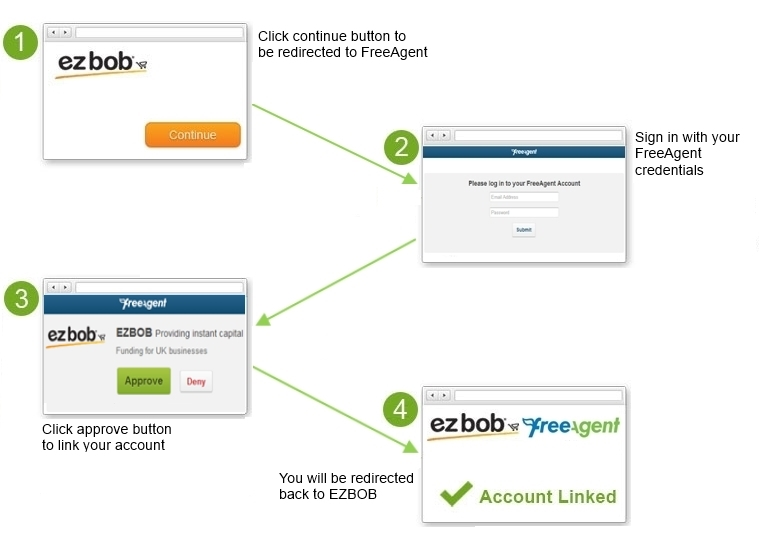
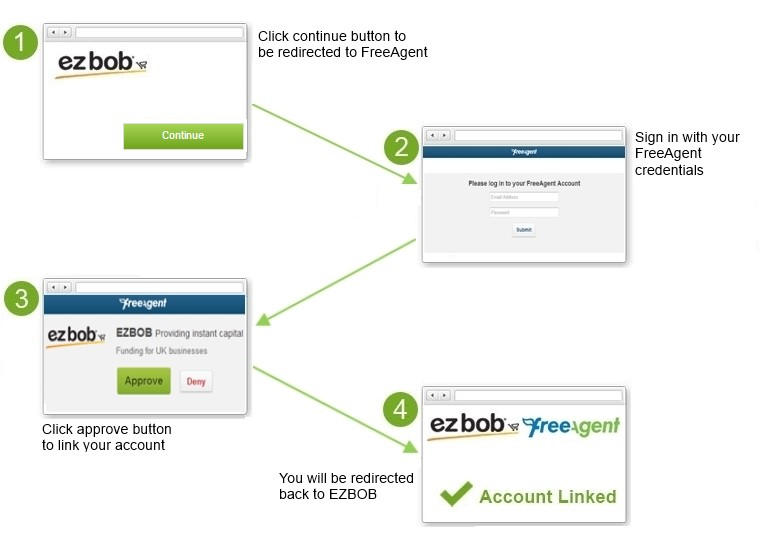
EZ-1650 wizard text/gui fixes

Changed region(s): [[0.1515, 0.2063, 0.3333, 0.2947]]

diff --git a/App/PluginWeb/EzBob.Web/Content/js/Wizard/shops/ezbob.shops.min.js b/App/PluginWeb/EzBob.Web/Content/js/Wizard/shops/ezbob.shops.min.js
@@ -1,1 +1,1 @@
-(function(){var n,t={}.hasOwnProperty,i=function(n,i){function u(){this.constructor=n}for(var r in i)t.call(i,r)&&(n[r]=i[r]);return u.prototype=i.prototype,n.prototype=new u,n.__super__=i.prototype,n};n=typeof exports!="undefined"&&exports!==null?exports:this;n.EzBob=n.EzBob||{};EzBob.StoreInfoView=function(n){function t(){return t.__super__.constructor.apply(this,arguments)}return i(t,n),t.prototype.attributes={"class":"stores-view"},t.prototype.isOffline=function(){return this.fromCustomer("IsOffline")},t.prototype.isProfile=function(){return this.fromCustomer("IsProfile")},t.prototype.fromCustomer=function(n){var t;return(t=this.model.get("customer"),!t)?!1:n==="IsProfile"?t.createdInProfile:t.get(n)},t.prototype.initialize=function(){var r,n,i,f,t,u,e;this.ebayStores=new EzBob.EbayStoreModels;this.EbayStoreView=new EzBob.EbayStoreInfoView;this.ebayStores.on("reset change",this.marketplacesChanged,this);this.amazonMarketplaces=new EzBob.AmazonStoreModels;this.AmazonStoreInfoView=new EzBob.AmazonStoreInfoView;this.amazonMarketplaces.on("reset change",this.marketplacesChanged,this);this.ekmAccounts=new EzBob.EKMAccounts;this.EKMAccountInfoView=new EzBob.EKMAccountInfoView({model:this.ekmAccounts});this.freeAgentAccounts=new EzBob.FreeAgentAccounts;this.FreeAgentAccountInfoView=new EzBob.FreeAgentAccountInfoView({model:this.freeAgentAccounts});this.sageAccounts=new EzBob.SageAccounts;this.sageAccountInfoView=new EzBob.SageAccountInfoView({model:this.sageAccounts});this.PayPointAccounts=new EzBob.PayPointAccounts;this.PayPointAccountInfoView=new EzBob.PayPointAccountInfoView({model:this.PayPointAccounts});this.YodleeAccounts=new EzBob.YodleeAccounts;this.YodleeAccountInfoView=new EzBob.YodleeAccountInfoView({model:this.YodleeAccounts});this.payPalAccounts=new EzBob.PayPalAccounts(this.model.get("paypalAccounts"));this.PayPalInfoView=new EzBob.PayPalInfoView({model:this.payPalAccounts});i=$.parseJSON($("div#cg-account-list").text());for(n in i)f=i[n],t=n.toLowerCase(),r=new EzBob.CGAccounts([],{accountType:n}),this[t+"Accounts"]=r,this[t+"AccountInfoView"]=t==="hmrc"?new EzBob.HMRCAccountInfoView({model:r}):new EzBob.CGAccountInfoView({model:r,accountType:n});this.stores={eBay:{view:this.EbayStoreView},Amazon:{view:this.AmazonStoreInfoView},paypal:{view:this.PayPalInfoView},EKM:{view:this.EKMAccountInfoView},PayPoint:{view:this.PayPointAccountInfoView},Yodlee:{view:this.YodleeAccountInfoView},FreeAgent:{view:this.FreeAgentAccountInfoView},Sage:{view:this.sageAccountInfoView}};for(n in i)e=i[n],t=n.toLowerCase(),this.stores[n]={view:this[t+"AccountInfoView"]};typeof u=="undefined"&&(u=Math.random()*10000000000000000);this.storeList=$(_.template($("#store-info").html(),{ordpi:u}));EzBob.App.on("ct:storebase.shops.connect",this.connect,this);return this.isReady=!1},t.prototype.events={"click a.connect-store":"close","click a.continue":"next","click .btn-showmore":"showMoreAccounts"},t.prototype.render=function(){var e,l,t,g,a,n,nt,v,r,tt,it,y,rt,u,p,f,i,o,s,h,c,ut,ft,et,ot,w,b,k,d;for(this.mpGroups={},w=EzBob.Config.MarketPlaceGroups,o=0,ut=w.length;o<ut;o++)t=w[o],this.mpGroups[t.Id]=t,t.ui=null;for(b=EzBob.Config.MarketPlaces,s=0,ft=b.length;s<ft;s++)n=b[s],i=n.Name==="Pay Pal"?"paypal":n.Name,this.stores[i]&&(this.stores[i].active=this.isProfile()?this.isOffline()?n.ActiveDashboardOffline:n.ActiveDashboardOnline:this.isOffline()?n.ActiveWizardOffline:n.ActiveWizardOnline,this.stores[i].priority=this.isOffline()?n.PriorityOffline:n.PriorityOnline,this.stores[i].ribbon=n.Ribbon?n.Ribbon:"",this.stores[i].button=new EzBob.StoreButtonView({name:i,mpAccounts:this.model}),this.stores[i].button.ribbon=n.Ribbon?n.Ribbon:"",this.stores[i].mandatory=this.isOffline()?n.MandatoryOffline:n.MandatoryOnline,this.stores[i].groupid=n.Group!=null?n.Group.Id:0);k=this.stores;for(nt in k){f=k[nt];f.button.on("selected",this.connect,this);f.view.on("completed",_.bind(this.completed,this,f.button.name));f.view.on("back",this.back,this);f.button.on("ready",this.ready,this)}this.canContinue();this.showOrRemove();e=this.storeList.find(".accounts-list");e.empty();tt="Active"+(this.isProfile()?"Dashboard":"Wizard")+(this.isOffline()?"Offline":"Online");rt="Priority"+(this.isOffline()?"Offline":"Online");r=[];d=this.mpGroups;for(g in d)t=d[g],t[tt]&&r.push(t);for(r=_.sortBy(r,function(n){return n[rt]}),l=!0,h=0,et=r.length;h<et;h++)t=r[h],l?(l=!1,y="first"):y="following",a=this.storeList.find(".marketplace-group-template").clone().removeClass("marketplace-group-template hide").addClass(y).appendTo(e),$(".group-title",a).text(t.DisplayName),this.mpGroups[t.Id].ui=a;for(p=_.sortBy(this.stores,function(n){return n.priority}),c=0,ot=p.length;c<ot;c++)(u=p[c],u.active)&&(v=this.mpGroups[u.groupid]&&this.mpGroups[u.groupid].ui?this.mpGroups[u.groupid].ui:e,it=this.isProfile()?"marketplace-button-profile":this.extractBtnClass(v),u.button.render().$el.addClass("marketplace-button "+it).appendTo(v));return this.isOffline()&&!this.isProfile()&&this.storeList.find(".marketplace-button-more, .marketplace-group.following").hide(),this.storeList.appendTo(this.$el),EzBob.UiAction.registerView(this),this.amazonMarketplaces.trigger("reset"),this.ebayStores.trigger("reset"),this.$el.find("img[rel]").setPopover("left"),this.$el.find("li[rel]").setPopover("left"),this},t.prototype.showOrRemove=function(){var r,i,n,t;return r=this.isOffline(),i=this.isProfile(),$(this.storeList).find(".back-store").remove(),t="",n="",this.storeList.find(".btn-showmore").show(),r?(t=".offline_entry_message",n=".online_entry_message",this.storeList.find(".importantnumber").text("£150,000"),i?(this.storeList.find(".btn-showmore").hide(),this.storeList.find(".AddMoreRuleBottom").removeClass("hide")):this.storeList.find(".btn-showmore").show()):(t=".online_entry_message",n=".offline_entry_message",this.storeList.find(".btn-showmore").hide(),this.storeList.find(".AddMoreRuleBottom").removeClass("hide")),this.storeList.find(t).show(),this.storeList.find(n).remove(),i?(t=".profile_message",n=".wizard_message"):(t=".wizard_message",n=".profile_message"),this.storeList.find(t).show(),this.storeList.find(n).remove()},t.prototype.showMoreAccounts=function(){return this.storeList.find(".btn-showmore").hide(),this.storeList.find(".AddMoreRuleBottom").removeClass("hide"),this.storeList.find(".marketplace-button-more, .marketplace-group.following").show()},t.prototype.canContinue=function(){var n,t,i,r,f,e,o,u;i=!1;u=this.stores;for(f in u)if(e=u[f],e.button.shops.length){i=!0;break}return t=this.stores.eBay.button.shops.length>0,r=this.stores.paypal.button.shops.length>0,this.$el.find(".eBayPaypalRule").toggleClass("hide",!(t&&!r)),n=!1,this.isProfile()?n=!0:i&&(!t||t&&r)?n=!0:(o=this.isOffline()?"offline":"online",n=$("#allowFinishWizardWithoutMarketplaces").attr(o).toLowerCase()==="true"),this.storeList.find(".continue").toggleClass("disabled",!n),this.storeList.find(".AddMoreRule").toggleClass("hide",n)},t.prototype.extractBtnClass=function(n){var t;return t="pull-left",t+(" marketplace-button-"+($(".marketplace-button-less",n).length<2?"less":"more"))},t.prototype.marketplacesChanged=function(){if(this.ebayStores.length>0||this.amazonMarketplaces.length>0)return this.$el.find(".wizard-top-notification h2").text("Add more shops to get more cash!")},t.prototype.connect=function(n){var i,t;return EzBob.CT.recordEvent("ct:storebase.shops.connect",n),this.$el.find(">div").hide(),t=this.stores[n].view,t.render().$el.appendTo(this.$el),i=t.$el.find("IMG.field_status"),i.filter(".required").field_status({required:!0}),i.not(".required").field_status({required:!1}),t.$el.show(),this.oldTitle=$(document).attr("title"),this.setDocumentTitle(t),this.setFocus(n),event.preventDefault(),!1},t.prototype.setFocus=function(n){var t;$.colorbox.close();switch(n){case"EKM":return this.$el.find("#ekm_login").focus();case"PayPoint":return this.$el.find("#payPoint_login").focus();default:if(t=$.parseJSON($("div#cg-account-list").text()),t[n])return $(".form_field","#"+n.toLowerCase()+"Account").first().focus()}},t.prototype.setDocumentTitle=function(n){var t;return t=n.getDocumentTitle(),t?$(document).attr("title","Step 2: "+t+" | EZBOB"):void 0},t.prototype.close=function(){return this},t.prototype.completed=function(n){return this.shopConnected(n),this.trigger("completed")},t.prototype.back=function(){return this.$el.find(">div").hide(),this.storeList.show(),$(document).attr("title",this.oldTitle),this.updateEarnedPoints(),!1},t.prototype.next=function(){var n,t;if(n=this.$el.find(".continue"),!n.hasClass("disabled"))return t=$.post(window.gRootPath+"CustomerDetails/LinkAccountsComplete"),t.done(function(){return EzBob.App.trigger("clear"),EzBob.App.GA.trackEventReditect(window.gRootPath+"Customer/Profile/Index","Wizard Complete","Go To account","Awaiting Approval")}),!1},t.prototype.ready=function(n){return this.trigger("ready",n),this.isReady?void 0:(this.isReady=!0,this.$el.find(".continue").show())},t.prototype.updateEarnedPoints=function(){return $.getJSON(""+window.gRootPath+"Customer/Wizard/EarnedPointsStr").done(function(n){if(n.EarnedPointsStr)return $("#EarnedPoints").text(n.EarnedPointsStr)})},t.prototype.shopConnected=function(n){var t=this;return this.model.get("customer").safeFetch().done(function(){return t.stores[n].button.update(t.fromCustomer("mpAccounts")),t.updateEarnedPoints(),t.render()})},t}(Backbone.View)}).call(this)
+(function(){var n,t={}.hasOwnProperty,i=function(n,i){function u(){this.constructor=n}for(var r in i)t.call(i,r)&&(n[r]=i[r]);return u.prototype=i.prototype,n.prototype=new u,n.__super__=i.prototype,n};n=typeof exports!="undefined"&&exports!==null?exports:this;n.EzBob=n.EzBob||{};EzBob.StoreInfoView=function(n){function t(){return t.__super__.constructor.apply(this,arguments)}return i(t,n),t.prototype.attributes={"class":"stores-view"},t.prototype.isOffline=function(){return this.fromCustomer("IsOffline")},t.prototype.isProfile=function(){return this.fromCustomer("IsProfile")},t.prototype.fromCustomer=function(n){var t;return(t=this.model.get("customer"),!t)?!1:n==="IsProfile"?t.createdInProfile:t.get(n)},t.prototype.initialize=function(){var r,n,i,f,t,u,e;this.renderExecuted=!1;this.ebayStores=new EzBob.EbayStoreModels;this.EbayStoreView=new EzBob.EbayStoreInfoView;this.ebayStores.on("reset change",this.marketplacesChanged,this);this.amazonMarketplaces=new EzBob.AmazonStoreModels;this.AmazonStoreInfoView=new EzBob.AmazonStoreInfoView;this.amazonMarketplaces.on("reset change",this.marketplacesChanged,this);this.ekmAccounts=new EzBob.EKMAccounts;this.EKMAccountInfoView=new EzBob.EKMAccountInfoView({model:this.ekmAccounts});this.freeAgentAccounts=new EzBob.FreeAgentAccounts;this.FreeAgentAccountInfoView=new EzBob.FreeAgentAccountInfoView({model:this.freeAgentAccounts});this.sageAccounts=new EzBob.SageAccounts;this.sageAccountInfoView=new EzBob.SageAccountInfoView({model:this.sageAccounts});this.PayPointAccounts=new EzBob.PayPointAccounts;this.PayPointAccountInfoView=new EzBob.PayPointAccountInfoView({model:this.PayPointAccounts});this.YodleeAccounts=new EzBob.YodleeAccounts;this.YodleeAccountInfoView=new EzBob.YodleeAccountInfoView({model:this.YodleeAccounts});this.payPalAccounts=new EzBob.PayPalAccounts(this.model.get("paypalAccounts"));this.PayPalInfoView=new EzBob.PayPalInfoView({model:this.payPalAccounts});i=$.parseJSON($("div#cg-account-list").text());for(n in i)f=i[n],t=n.toLowerCase(),r=new EzBob.CGAccounts([],{accountType:n}),this[t+"Accounts"]=r,this[t+"AccountInfoView"]=t==="hmrc"?new EzBob.HMRCAccountInfoView({model:r}):new EzBob.CGAccountInfoView({model:r,accountType:n});this.stores={eBay:{view:this.EbayStoreView},Amazon:{view:this.AmazonStoreInfoView},paypal:{view:this.PayPalInfoView},EKM:{view:this.EKMAccountInfoView},PayPoint:{view:this.PayPointAccountInfoView},Yodlee:{view:this.YodleeAccountInfoView},FreeAgent:{view:this.FreeAgentAccountInfoView},Sage:{view:this.sageAccountInfoView}};for(n in i)e=i[n],t=n.toLowerCase(),this.stores[n]={view:this[t+"AccountInfoView"]};typeof u=="undefined"&&(u=Math.random()*10000000000000000);this.storeList=$(_.template($("#store-info").html(),{ordpi:u}));EzBob.App.on("ct:storebase.shops.connect",this.connect,this);return this.isReady=!1},t.prototype.events={"click a.connect-store":"close","click a.continue":"next","click .btn-showmore":"showMoreAccounts","click .btn-go-to-link-accounts":"showLinkAccountsForm","click .btn-take-quick-offer":"takeQuickOffer","click .btn-back-to-quick-offer":"backToQuickOffer"},t.prototype.backToQuickOffer=function(){return this.storeList.find(".link-accounts-form").addClass("hide"),this.storeList.find(".quick-offer-form").removeClass("hide")},t.prototype.takeQuickOffer=function(){var n;return n=$.post(window.gRootPath+"CustomerDetails/TakeQuickOffer"),n.done(function(){return EzBob.App.trigger("clear"),EzBob.App.GA.trackEventReditect(window.gRootPath+"Customer/Profile#GetCash","Wizard Complete","Go To account","Quick Offer Taken")}),!1},t.prototype.showLinkAccountsForm=function(){return this.storeList.find(".quick-offer-form").addClass("hide"),this.storeList.find(".link-accounts-form").removeClass("hide")},t.prototype.render=function(){var e,l,t,g,a,n,nt,v,r,tt,it,y,rt,u,ut,p,f,i,o,s,h,c,ft,et,ot,st,w,b,k,d;for(this.mpGroups={},w=EzBob.Config.MarketPlaceGroups,o=0,ft=w.length;o<ft;o++)t=w[o],this.mpGroups[t.Id]=t,t.ui=null;for(b=EzBob.Config.MarketPlaces,s=0,et=b.length;s<et;s++)n=b[s],i=n.Name==="Pay Pal"?"paypal":n.Name,this.stores[i]&&(this.stores[i].active=this.isProfile()?this.isOffline()?n.ActiveDashboardOffline:n.ActiveDashboardOnline:this.isOffline()?n.ActiveWizardOffline:n.ActiveWizardOnline,this.stores[i].priority=this.isOffline()?n.PriorityOffline:n.PriorityOnline,this.stores[i].ribbon=n.Ribbon?n.Ribbon:"",this.stores[i].button=new EzBob.StoreButtonView({name:i,mpAccounts:this.model}),this.stores[i].button.ribbon=n.Ribbon?n.Ribbon:"",this.stores[i].mandatory=this.isOffline()?n.MandatoryOffline:n.MandatoryOnline,this.stores[i].groupid=n.Group!=null?n.Group.Id:0);k=this.stores;for(nt in k){f=k[nt];f.button.on("selected",this.connect,this);f.view.on("completed",_.bind(this.completed,this,f.button.name));f.view.on("back",this.back,this);f.button.on("ready",this.ready,this)}this.canContinue();this.renderExecuted?this.shouldRemoveQuickOffer()&&(this.storeList.find(".quick-offer-form, .btn-back-to-quick-offer").remove(),this.storeList.find(".link-accounts-form").removeClass("hide")):(this.storeList.find(".quick-offer-form, .link-accounts-form").addClass("hide"),this.shouldShowQuickOffer()?(this.storeList.find(".quick-offer-form").removeClass("hide"),this.renderQuickOfferForm()):(this.storeList.find(".link-accounts-form").removeClass("hide"),this.shouldRemoveQuickOffer()&&this.storeList.find(".quick-offer-form, .btn-back-to-quick-offer").remove()));this.renderExecuted=!0;this.showOrRemove();e=this.storeList.find(".accounts-list");e.empty();tt="Active"+(this.isProfile()?"Dashboard":"Wizard")+(this.isOffline()?"Offline":"Online");rt="Priority"+(this.isOffline()?"Offline":"Online");r=[];d=this.mpGroups;for(g in d)t=d[g],t[tt]&&r.push(t);for(r=_.sortBy(r,function(n){return n[rt]}),l=!0,h=0,ot=r.length;h<ot;h++)t=r[h],l?(l=!1,y="first"):y="following",a=this.storeList.find(".marketplace-group-template").clone().removeClass("marketplace-group-template hide").addClass(y).appendTo(e),$(".group-title",a).text(t.DisplayName),this.mpGroups[t.Id].ui=a;for(p=_.sortBy(this.stores,function(n){return n.priority}),c=0,st=p.length;c<st;c++)(u=p[c],u.active)&&(v=this.mpGroups[u.groupid]&&this.mpGroups[u.groupid].ui?this.mpGroups[u.groupid].ui:e,it=this.isProfile()?"marketplace-button-profile":this.extractBtnClass(v),u.button.render().$el.addClass("marketplace-button "+it).appendTo(v));return this.isOffline()&&!this.isProfile()&&this.storeList.find(".marketplace-button-more, .marketplace-group.following").hide(),this.storeList.find(".marketplace-group.following .marketplace-button-full, .marketplace-button-full.marketplace-button-more").length&&this.showMoreAccounts(),this.storeList.appendTo(this.$el),EzBob.UiAction.registerView(this),this.amazonMarketplaces.trigger("reset"),this.ebayStores.trigger("reset"),this.$el.find("img[rel]").setPopover("left"),this.$el.find("li[rel]").setPopover("left"),ut=this.$el.find(".btn-showmore"),ut.hoverIntent(function(){return $(".onhover",this).animate({top:0,opacity:1})},function(){return $(".onhover",this).animate({top:"60px",opacity:0})}),this},t.prototype.renderQuickOfferForm=function(){return this.storeList.find(".immediate-offer .amount").text(EzBob.formatPoundsNoDecimals(this.quickOffer.Amount)),this.storeList.find(".immediate-offer .term").text(this.quickOffer.ImmediateTerm+" months"),this.storeList.find(".immediate-offer .interest-rate .value").text(EzBob.formatPercentsWithDecimals(this.quickOffer.ImmediateInterestRate)),this.storeList.find(".immediate-offer .setup-fee .value").text(EzBob.formatPercentsWithDecimals(this.quickOffer.ImmediateSetupFee)),this.storeList.find(".potential-offer .amount").text(EzBob.formatPoundsNoDecimals(this.quickOffer.PotentialAmount)),this.storeList.find(".potential-offer .term").text("up to "+this.quickOffer.PotentialTerm+" months"),this.storeList.find(".potential-offer .interest-rate .value").text(EzBob.formatPercentsWithDecimals(this.quickOffer.PotentialInterestRate)),this.storeList.find(".potential-offer .setup-fee .value").text(EzBob.formatPercentsWithDecimals(this.quickOffer.PotentialSetupFee))},t.prototype.shouldRemoveQuickOffer=function(){return this.quickOffer?moment.utc().diff(moment.utc(this.quickOffer.ExpirationDate))>0:!0},t.prototype.shouldShowQuickOffer=function(){return this.isProfile()?!1:(this.quickOffer=this.fromCustomer("QuickOffer"),!this.quickOffer)?!1:(this.requestedAmount=this.fromCustomer("RequestedAmount"),!this.requestedAmount)?!1:moment.utc().diff(moment.utc(this.quickOffer.ExpirationDate))<0},t.prototype.showOrRemove=function(){var r,i,n,t;return r=this.isOffline(),i=this.isProfile(),$(this.storeList).find(".back-store").remove(),t="",n="",this.storeList.find(".btn-showmore").show(),r?(t=".offline_entry_message",n=".online_entry_message",this.storeList.find(".importantnumber").text("£150,000"),i?(this.storeList.find(".btn-showmore").hide(),this.storeList.find(".AddMoreRuleBottom").removeClass("hide")):this.storeList.find(".btn-showmore").show()):(t=".online_entry_message",n=".offline_entry_message",this.storeList.find(".btn-showmore").hide(),this.storeList.find(".AddMoreRuleBottom").removeClass("hide")),this.storeList.find(t).show(),this.storeList.find(n).remove(),i?(t=".profile_message",n=".wizard_message"):(t=".wizard_message",n=".profile_message"),this.storeList.find(t).show(),this.storeList.find(n).remove()},t.prototype.showMoreAccounts=function(){return this.storeList.find(".btn-showmore").hide(),this.storeList.find(".AddMoreRuleBottom").removeClass("hide"),this.storeList.find(".marketplace-button-more, .marketplace-group.following").show(),this.storeList.find(".marketplace-button").css("display","table")},t.prototype.canContinue=function(){var n,t,i,r,f,e,o,u;i=!1;u=this.stores;for(f in u)if(e=u[f],e.button.shops.length){i=!0;break}return t=this.stores.eBay.button.shops.length>0,r=this.stores.paypal.button.shops.length>0,this.$el.find(".eBayPaypalRule").toggleClass("hide",!(t&&!r)),n=!1,this.isProfile()?n=!0:i&&(!t||t&&r)?n=!0:(o=this.isOffline()?"offline":"online",n=$("#allowFinishWizardWithoutMarketplaces").attr(o).toLowerCase()==="true"),this.storeList.find(".continue").toggleClass("disabled",!n),this.storeList.find(".AddMoreRule").toggleClass("hide",n),i},t.prototype.extractBtnClass=function(n){var t;return t="pull-left",t+(" marketplace-button-"+($(".marketplace-button-less",n).length<2?"less":"more"))},t.prototype.marketplacesChanged=function(){if(this.ebayStores.length>0||this.amazonMarketplaces.length>0)return this.$el.find(".wizard-top-notification h2").text("Add more shops to get more cash!")},t.prototype.connect=function(n){var i,t;return EzBob.CT.recordEvent("ct:storebase.shops.connect",n),this.$el.find(">div").hide(),t=this.stores[n].view,t.render().$el.appendTo(this.$el),i=t.$el.find("IMG.field_status"),i.filter(".required").field_status({required:!0}),i.not(".required").field_status({required:!1}),t.$el.show(),this.oldTitle=$(document).attr("title"),this.setDocumentTitle(t),this.setFocus(n),event.preventDefault(),!1},t.prototype.setFocus=function(n){var t;$.colorbox.close();switch(n){case"EKM":return this.$el.find("#ekm_login").focus();case"PayPoint":return this.$el.find("#payPoint_login").focus();default:if(t=$.parseJSON($("div#cg-account-list").text()),t[n])return $(".form_field","#"+n.toLowerCase()+"Account").first().focus()}},t.prototype.setDocumentTitle=function(n){var t;return t=n.getDocumentTitle(),t?$(document).attr("title","Step 2: "+t+" | EZBOB"):void 0},t.prototype.close=function(){return this},t.prototype.completed=function(n){return this.shopConnected(n),this.trigger("completed")},t.prototype.back=function(){return this.$el.find(">div").hide(),this.storeList.show(),$(document).attr("title",this.oldTitle),this.updateEarnedPoints(),!1},t.prototype.next=function(){var t,n;if(t=this.$el.find(".continue"),!t.hasClass("disabled"))return BlockUi("on"),n=$.post(window.gRootPath+"CustomerDetails/LinkAccountsComplete"),n.done(function(){return EzBob.App.trigger("clear"),EzBob.App.GA.trackEventReditect(window.gRootPath+"Customer/Profile/Index","Wizard Complete","Go To account","Awaiting Approval")}),n.always(function(){return BlockUi("off")}),!1},t.prototype.ready=function(n){return this.trigger("ready",n),this.isReady?void 0:(this.isReady=!0,this.$el.find(".continue").show())},t.prototype.updateEarnedPoints=function(){return $.getJSON(""+window.gRootPath+"Customer/Wizard/EarnedPointsStr").done(function(n){if(n.EarnedPointsStr)return $("#EarnedPoints").text(n.EarnedPointsStr)})},t.prototype.shopConnected=function(n){var t=this;return this.model.get("customer").safeFetch().done(function(){return t.stores[n].button.update(t.fromCustomer("mpAccounts")),t.updateEarnedPoints(),t.render()})},t}(Backbone.View)}).call(this)

diff --git a/App/PluginWeb/EzBob.Web/Content/js/Wizard/shops/ezbob.shops.js b/App/PluginWeb/EzBob.Web/Content/js/Wizard/shops/ezbob.shops.js
@@ -164,7 +164,7 @@
     };
 
     StoreInfoView.prototype.render = function() {
-      var accountsList, bFirst, grp, grpid, grpui, j, name, oTarget, relevantMpGroups, sActiveField, sBtnClass, sGroupClass, sPriorityField, shop, sortedShopsByPriority, store, storeTypeName, _i, _j, _k, _l, _len, _len1, _len2, _len3, _ref, _ref1, _ref2, _ref3;
+      var accountsList, bFirst, grp, grpid, grpui, j, name, oTarget, relevantMpGroups, sActiveField, sBtnClass, sGroupClass, sPriorityField, shop, showMoreBtn, sortedShopsByPriority, store, storeTypeName, _i, _j, _k, _l, _len, _len1, _len2, _len3, _ref, _ref1, _ref2, _ref3;
       this.mpGroups = {};
       _ref = EzBob.Config.MarketPlaceGroups;
       for (_i = 0, _len = _ref.length; _i < _len; _i++) {
@@ -273,6 +273,18 @@
       this.ebayStores.trigger("reset");
       this.$el.find("img[rel]").setPopover("left");
       this.$el.find("li[rel]").setPopover("left");
+      showMoreBtn = this.$el.find('.btn-showmore');
+      showMoreBtn.hoverIntent((function(evt) {
+        return $('.onhover', this).animate({
+          top: 0,
+          opacity: 1
+        });
+      }), (function(evt) {
+        return $('.onhover', this).animate({
+          top: '60px',
+          opacity: 0
+        });
+      }));
       return this;
     };
 

diff --git a/App/PluginWeb/EzBob.Web/Content/css/wizard.css b/App/PluginWeb/EzBob.Web/Content/css/wizard.css
@@ -177,6 +177,23 @@ ul.list_none
 }
 
 #wizard .notifications > div { width: 95%; }
+.rotate90 {
+    -moz-transform: rotate(-90.0deg); /* FF3.5+ */
+    -o-transform: rotate(-90.0deg); /* Opera 10.5 */
+    -webkit-transform: rotate(-90.0deg);
+    -ms-transform: rotate(-90.0deg);
+    transform: rotate(-90.0deg); /* Saf3.1+, Chrome */
+    filter: progid:DXImageTransform.Microsoft.BasicImage(rotation=0.083); /* IE6,IE7 */
+    -ms-filter: "progid:DXImageTransform.Microsoft.BasicImage(rotation=0.083)"; /* IE8 */
+    font-size: 35px;
+}
+
+.btn-showmore {
+    width: 100%;
+    margin-bottom: 10px;
+    line-height: normal !important;
+    cursor: pointer !important;
+}
 
 h1.form_start,
 h2.form_start {

diff --git a/App/PluginWeb/EzBob.Web/Content/js/Profile/ezbob.profile.getCash.js b/App/PluginWeb/EzBob.Web/Content/js/Profile/ezbob.profile.getCash.js
@@ -118,7 +118,7 @@ EzBob.Profile.GetCashView = Backbone.View.extend({
 		this.$el.find('.trustpilot-ezbob').dialog({
 			autoOpen: true,
 			modal: true,
-			width: 400,
+			width: 450,
 			resizable: false,
 			closeOnEscape: false,
 			close: function(evt, ui) {

diff --git a/App/PluginWeb/EzBob.Web/Content/css/app.css b/App/PluginWeb/EzBob.Web/Content/css/app.css
@@ -1168,6 +1168,9 @@ input[type="color"],
     font-weight: bold;
     margin-top: 0.6em;
 }
+.eBayPaypalRule {
+    color: red;
+}
 
 .cunt-button .eBayPaypalRule,
 .cunt-button .AddMoreRule {
